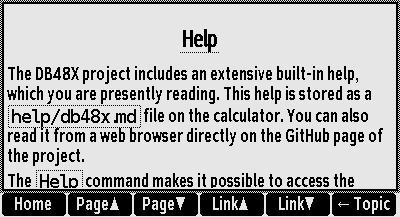
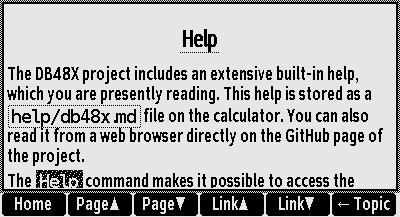
help: Automatically create links for code items
When writing `STO` in the help file, automatically add a link to it.

Changed region(s): [[0.09, 0.7742, 0.21, 0.8848]]

diff --git a/src/user_interface.cc b/src/user_interface.cc
@@ -3146,6 +3146,7 @@ enum style_name
     KEY,
     TOPIC,
     HIGHLIGHTED_TOPIC,
+    HIGHLIGHTED_CODE,
     NUM_STYLES
 };
 
@@ -3179,6 +3180,7 @@ restart:
         { HelpFont,         p::white,  p::black,  false, false, false, false },
         { HelpFont,         p::black,  p::gray50, false, false, true,  false },
         { HelpFont,         p::white,  p::gray10, false, false, false, false },
+        { HelpCodeFont,     p::white,  p::gray10, false, false,  true,  true },
     };
 
 
@@ -3222,6 +3224,7 @@ restart:
     uint    codeStart = 0;
     uint    shown     = 0;
     bool    hadTitle  = false;
+    static char link[60];
 
     // Pun not indented
     helpfile.seek(help);
@@ -3439,9 +3442,50 @@ restart:
             case '`':
                 if (last != '`' && helpfile.peek() != '`')
                 {
-                    restyle = style == CODE ? NORMAL : CODE;
+                    bool wascode = style == CODE || style == HIGHLIGHTED_CODE;
+                    restyle = wascode ? NORMAL : CODE;
                     skip    = true;
                     emit    = true;
+
+
+                    if (!wascode)
+                    {
+                        uint pos = helpfile.position();
+                        unicode n  = helpfile.get();
+                        char *p = link;
+                        while (n != '`')
+                        {
+                            if (p < link + sizeof(link) - 1)
+                                *p++ = n;
+                            n = helpfile.get();
+                        }
+                        *p = 0;
+                        size_t cmdlen = p - link;
+                        object::id cmd = command::lookup(utf8(link), cmdlen);
+                        wascode = cmd && cmdlen == size_t(p - link);
+                        helpfile.seek(pos);
+
+                        if (wascode)
+                        {
+                            lastTopic = pos;
+                            if (topic < shown)
+                                topic = lastTopic;
+                            if (lastTopic == topic)
+                            {
+                                restyle    = HIGHLIGHTED_CODE;
+                                codeStart  = 0;
+                            }
+
+                            if (follow && restyle == HIGHLIGHTED_CODE)
+                            {
+                                if (topics_history)
+                                    topics[topics_history-1] = shown;
+                                load_help(utf8(link));
+                                Screen.clip(clip);
+                                goto restart;
+                            }
+                        }
+                    }
                 }
                 else
                 {
@@ -3517,11 +3561,10 @@ restart:
                         break;
                     }
 
-                    static char  link[60];
-                    char        *p = link;
+                    char *p = link;
                     while (n != ')')
                     {
-                        n      = helpfile.get();
+                        n = helpfile.get();
                         if (n != '#')
                             if (p < link + sizeof(link))
                                 *p++ = n;
@@ -3564,7 +3607,7 @@ restart:
         height            = font->height();
 
         // If we are rendering a command name, follow user preferences
-        if (style == SUBTITLE || style == CODE)
+        if (style == SUBTITLE || style == CODE || style == HIGHLIGHTED_CODE)
         {
             size_t cmdlen = widx;
             if (object::id cmd = command::lookup(buffer, cmdlen))
@@ -3667,7 +3710,29 @@ restart:
             if (style == VERBATIM)
                 Screen.fill(xleft, y - 2, xright, y + height * 5 / 4 - 3, bg);
 
-        if (underline)
+        if (box)
+        {
+            if (draw)
+            {
+                xl += 1;
+                xr += 8;
+                if (underline)
+                {
+                    Screen.fill(xl, y, xr, yf, bg);
+                }
+                else
+                {
+                    Screen.fill(xl, yf, xr, yf, bg);
+                    Screen.fill(xl, y, xl, yf, bg);
+                    Screen.fill(xr, y, xr, yf, bg);
+                    Screen.fill(xl, y, xr, y, bg);
+                }
+                xl -= 1;
+                xr -= 8;
+            }
+            kwidth += 4;
+        }
+        else if (underline)
         {
             if (draw)
             {
@@ -3677,21 +3742,6 @@ restart:
                 xl += 2;
                 xr -= 2;
             }
-        }
-        else if (box)
-        {
-            if (draw)
-            {
-                xl += 1;
-                xr += 8;
-                Screen.fill(xl, yf, xr, yf, bg);
-                Screen.fill(xl, y, xl, yf, bg);
-                Screen.fill(xr, y, xr, yf, bg);
-                Screen.fill(xl, y, xr, y, bg);
-                xl -= 1;
-                xr -= 8;
-            }
-            kwidth += 4;
         }
         else if (bg.bits != pattern::white.bits)
         {
@@ -3992,6 +4042,12 @@ bool user_interface::handle_help(int &key)
             {
                 helpfile.seek(help);
                 help = helpfile.rfind('\n');
+                unicode next = helpfile.peek();
+                if (next != '#')
+                {
+                    count++;
+                    line += height;
+                }
                 if (!help)
                     break;
             }
@@ -4020,7 +4076,7 @@ bool user_interface::handle_help(int &key)
         while(count--)
         {
             helpfile.seek(topic);
-            topic = helpfile.rfind('[');
+            topic = helpfile.rfind('[', '`');
         }
         topic  = helpfile.position();
         repeat = true;
@@ -4031,7 +4087,7 @@ bool user_interface::handle_help(int &key)
     case KEY_MUL:
         helpfile.seek(topic);
         while (count--)
-            helpfile.find('[');
+            helpfile.find('[', '`');
         topic  = helpfile.position();
         repeat = true;
         dirtyHelp = true;

diff --git a/src/file.cc b/src/file.cc
@@ -347,7 +347,7 @@ unicode file::get()
 }
 
 
-uint file::find(unicode   cp)
+uint file::find(unicode cp)
 // ----------------------------------------------------------------------------
 //    Find a given code point in file looking forward
 // ----------------------------------------------------------------------------
@@ -357,9 +357,27 @@ uint file::find(unicode   cp)
     uint    off;
     do
     {
-        off          = ftell(data);
-        c            = get();
+        off = ftell(data);
+        c   = get();
     } while (c && c != cp);
+    return off;
+}
+
+
+uint file::find(unicode cp1, unicode cp2)
+// ----------------------------------------------------------------------------
+//    Find a given code point in file looking forward
+// ----------------------------------------------------------------------------
+//    Return position right before code point, position file right after it
+{
+    unicode c;
+    uint    off;
+    bool    in = false;
+    do
+    {
+        off = ftell(data);
+        c   = get();
+    } while (c && c != cp1 && (c != cp2 || (in = !in)));
     return off;
 }
 
@@ -377,9 +395,30 @@ uint file::rfind(unicode  cp)
         if (off == 0)
             break;
         fseek(data, --off, SEEK_SET);
-        c        = get();
+        c = get();
     }
     while (c != cp);
+    return off;
+}
+
+
+uint file::rfind(unicode  cp1, unicode cp2)
+// ----------------------------------------------------------------------------
+//    Find a given code point in file looking backward
+// ----------------------------------------------------------------------------
+//    Return position right before code point, position file right after it
+{
+    uint    off = ftell(data);
+    unicode c;
+    bool    in = false;
+    do
+    {
+        if (off == 0)
+            break;
+        fseek(data, --off, SEEK_SET);
+        c = get();
+    }
+    while (c != cp1 && (c != cp2 || (in = !in)));
     return off;
 }
 

diff --git a/src/file.h b/src/file.h
@@ -65,7 +65,9 @@ struct file
     unicode peek();
     uint    position();
     uint    find(unicode cp);
+    uint    find(unicode cp1, unicode cp2);
     uint    rfind(unicode cp);
+    uint    rfind(unicode cp1, unicode cp2);
     cstring error(int err) const;
     cstring error() const;
     cstring filename() const { return name; }
